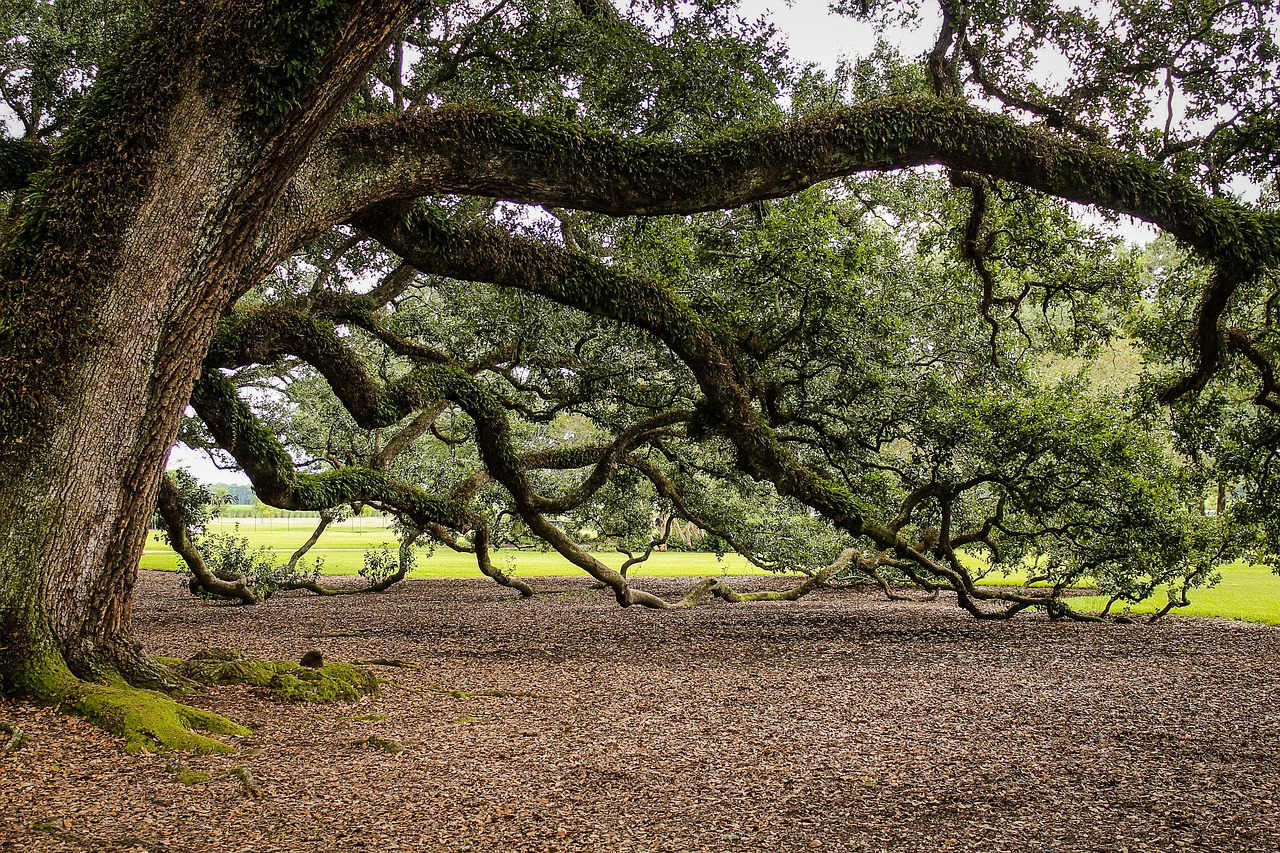
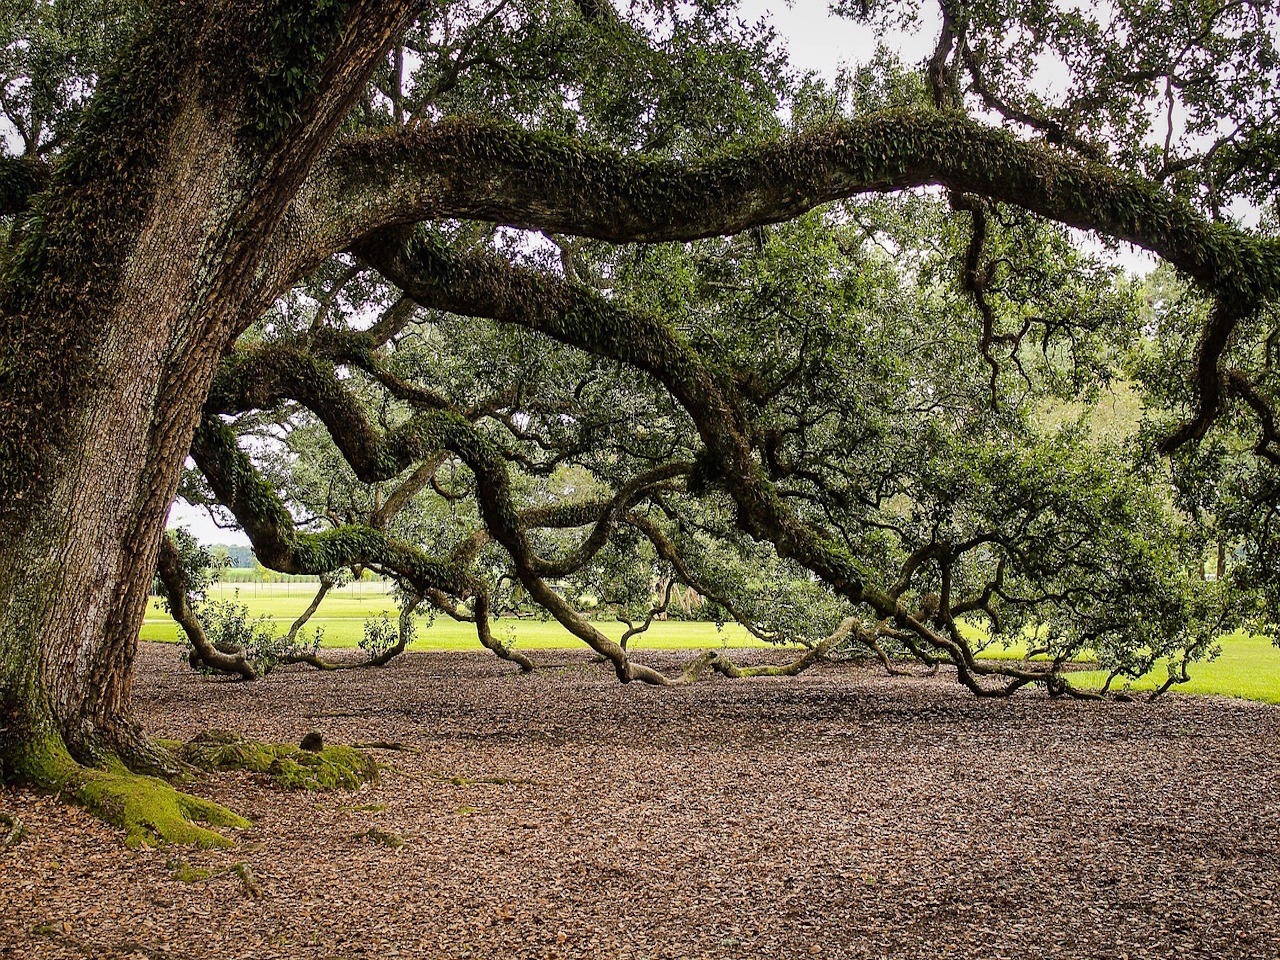
resized virginia-live-oak
size of image was smaller than the rest of the images 17.78x11.85 so I
resized it to match the other 3 images
17.78x13.33

diff --git a/index.html b/index.html
@@ -55,7 +55,7 @@
         <div class="row" id="about">
             <div class="large-8 columns about-content">
                 <h4>Steve Karstens-Owner</h4>
-                <p>We offer taking down or trimming up. No trees are too tall. We will haul off debris or chop into firewood size, if desired. We are on the job and out of your way as soon as possible, and leave the area clean and picked up.</p>
+                <p>We offer taking down or trimming up. We will haul off debris or chop into firewood size, if desired. We are on the job and out of your way as soon as possible, and leave the area clean and picked up.</p>
                 <p>We do jobs that large tree services won't do. No job is too small. We are also available for after storm cleanup. Fill out the form below for a free quote.</p>
             </div>
             <div class="large-4 columns">
